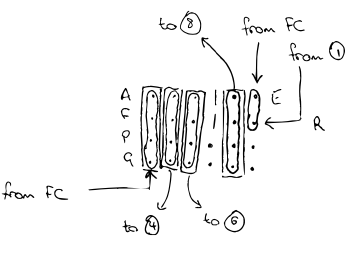
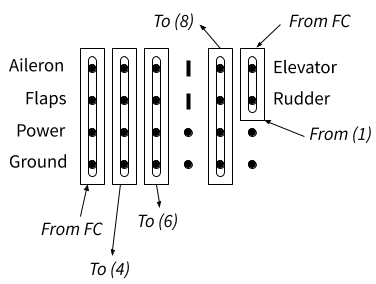
Update electronics schematics

diff --git a/report/chapters/3-final-design-proposal/main.tex b/report/chapters/3-final-design-proposal/main.tex
@@ -407,7 +407,7 @@ Small holes cut through both parts of the mount allowed for threaded inserts to 
 Few drastic changes were made to the avionics between the revised and final designs.
 The final wiring diagram, including all components comprising the avionics and electronics subsystem for the final model, is shown in Figure \ref{fig:wiring-diagram}.
 
-\importimage{wiring-diagram}{wiring diagram for the avionics subsystem.}{Wiring diagram}{0.6}
+\importimage{wiring-diagram}{wiring diagram for the avionics subsystem.}{Wiring diagram}{0.9}
 
 One key difference not mentioned previously is the inclusion of several signal splitters, designed to split signals for each control surface from the single corresponding output on the flight controller to the multiple servos belonging to that group.
 The arrangement of splitters, shown in Figure \ref{fig:signal-splitters}, distributes the signals to the relevant locations while using a minimal amount of wiring and also keeping the number of splitters as low as possible.
@@ -419,7 +419,7 @@ Each spitter is specified in terms of the signals designated as inputs and outpu
 Splitters are also chained together where needed, and some splitters have breaks in the stripboard to accommodate a more compact design.
 A small outcrop of stripboard is left around the edge of each splitter so that they can be secured in place within the aircraft; it is thought that wires are less likely to become damaged if their attachment points cannot move, thereby reducing the risk of failure or electrical damage.
 
-\importimage{splitter-schematic}{manufacturing schematic for a single splitter.}{Manufacturing schematic}{0.5}
+\importimage{splitter-schematic}{manufacturing schematic for splitter 3; strips are aligned horizontally, with header pins denoted by rectangles and solder denoted by ovals.}{Manufacturing schematic}{0.5}
 
 Ultimately all of the servos $-$ along with the avionics $-$ are powered by the avionics battery via the flight controller.
 Jumper wires are soldered to the flight controller, which can plug into the female JST connector that powers the battery.

diff --git a/report/chapters/2-design-process/main.tex b/report/chapters/2-design-process/main.tex
@@ -1137,7 +1137,7 @@ It was decided that these servos would need to be of a different type to those e
 In all, fourteen servos were required to control the aircraft, including the two servos of different specification for the rudder.
 The exact configuration of these servos, as well as the signals passed to each of them, is shown below. 
 
-\importimage{signal-splitters}{control signal splitter schematic.}{Signal splitter schematic}{0.7}
+\importimage{signal-splitters}{control signal splitter schematic.}{Signal splitter schematic}{0.9}
 
 Note that each flap is supported by two servos of opposing deflection directions.
 While the flaps increase the lift of the aircraft quite dramatically, and thereby exert a large moment onto their supporting servos, the distribution of this load across four flap segments and eight servos meant that the smaller servo size was capable of holding the flaps in place during takeoff and landing. 
